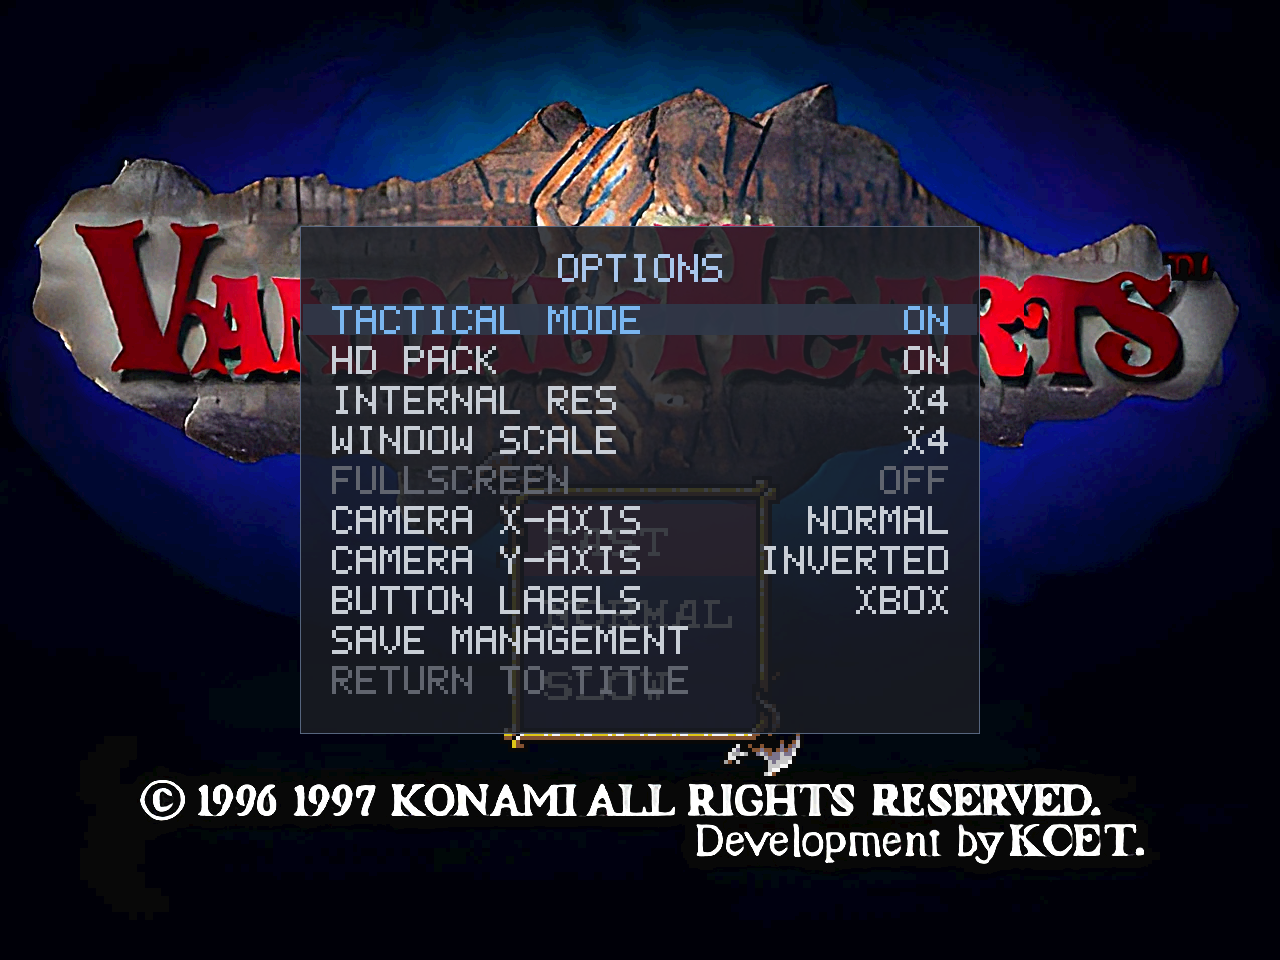
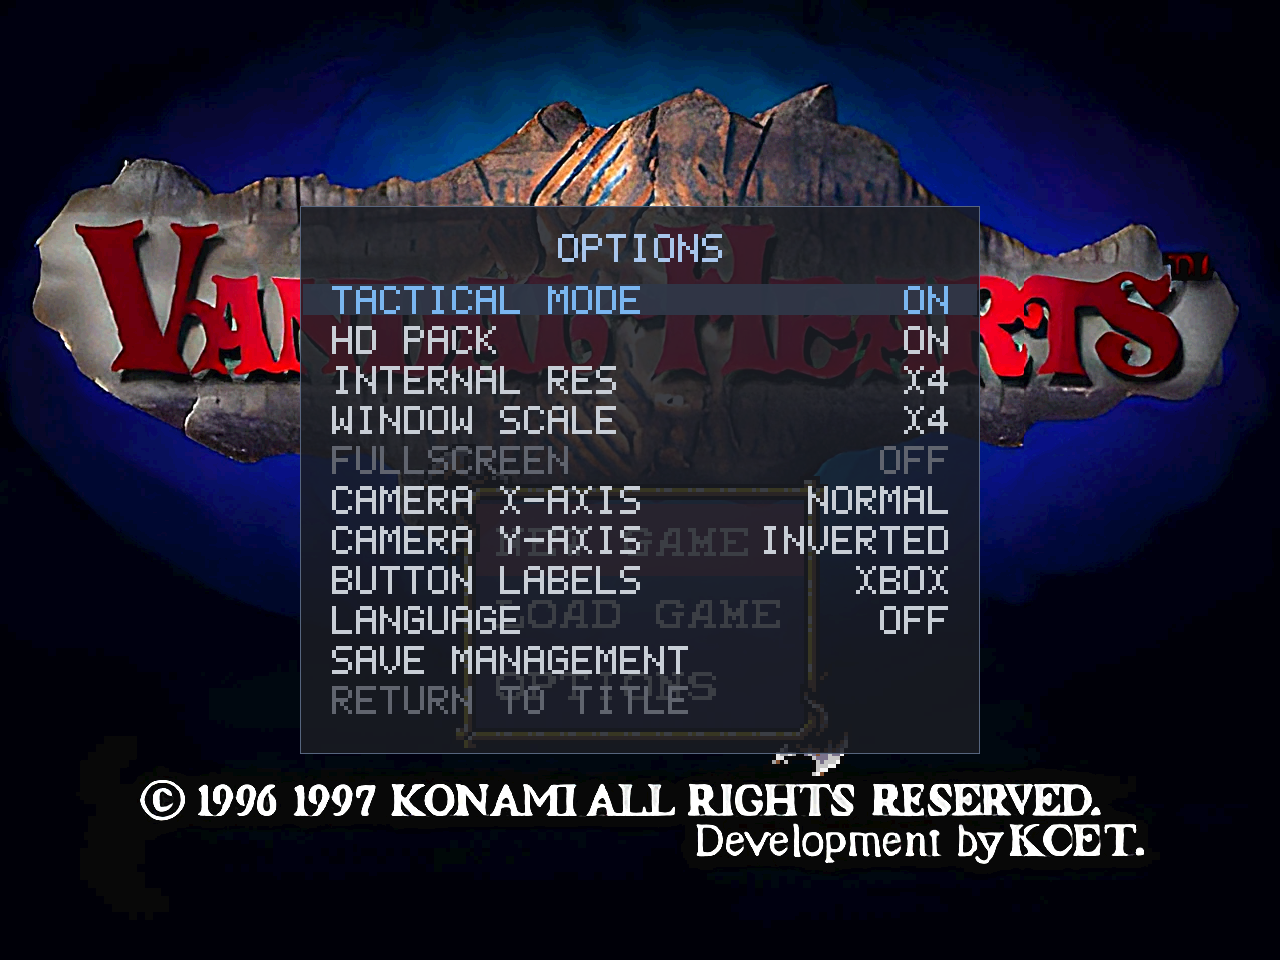
docs: 1.7.0 prep -- language packs across the player-facing documentation
The feature existed only in the tooling's own docs; the main documentation
now carries it everywhere a player or translator looks:

- README: a "Translate the game" row in Where to start (player guide +
  authoring quickstart/reference).
- Issue template: version placeholder to v1.7.0 and a required Language
  pack field (with the LANGUAGE=OFF isolation step), mirroring the HD-pack
  pattern; contact links mention language packs.
- configuration.md: the missing VH_LANG row (overlay persistence, restart
  semantics, VH_LANGPACK dev override).
- language-packs.md: the 16-char item-name option (format 2) and a
  Localized backgrounds section -- every INTERNAL RES setting, nothing
  needed from the player, priority over the HD pack (cross-referenced from
  hd-pack.md).
- Player Manual: Language packs in Setup and Features (PDF chain verified).
- OPTIONS.md: the VH_LANG/VH_LANGPACK env reference.
- roadmap.md: v1.7.0 framed as the one enabling (not gameplay) addition
  since the maintenance declaration.
- gameplay-additions.md: a Language packs section in the house pattern
  (community intent, reused quickstart screenshots), the overlay row list
  gains LANGUAGE (the one non-live setting), and the refreshed overlay
  screenshot showing the row (metadata stripped).

Changed region(s): [[0.2188, 0.1875, 0.7812, 0.8125]]

diff --git a/platform/pc/OPTIONS.md b/platform/pc/OPTIONS.md
@@ -19,6 +19,7 @@ directory (`vh_*.csv` / `.txt` / `.log`, all gitignored).
 | `VH_INTERNAL_SCALE` | `1` | **Internal-resolution supersampling** (1.5/G2). `1` = off (native render). `2`–`4` render the software GPU at that multiple: each primitive is rasterized a second time into an Nx-larger buffer (geometry ×N, native texture sampled per hi-res pixel), for crisper terrain/edges without re-authoring any art. Needs `VH_ACCURATE=1` (the default). Cost is roughly N² × the native rasterizer (dual-pass), but the hi-res pass is **multithreaded** (see `VH_RASTER_THREADS`), so on a multicore CPU `2`/`3`/`4` all hold the 30 fps cap and battle fast-forward stays effective at `4`×. Also settable live in the options overlay ("INTERNAL RES", X1/X2/X3/X4) and persisted. **"Crust-free" tile sampling** is built in (no knob): the hi-res pass biases the UV sample +0.5 texel on perspective world polys so tile edges land on the bright cell interior instead of the dark border "crust" texel — this is exactly what the reference renderer does, and it removes the faint dark grid that finer sampling would otherwise draw along terrain/lava/water tile seams (and the compass "dotted lines"), with no softening. Axis-aligned 2D UI/text/sprites are auto-detected and keep plain centre-sampling, so glyph/border columns never shift. The decision is per-quad, so a quad's two triangles always agree (no diagonal seam). Hi-res pass only — native `s_vram` stays byte-exact. |
 | `VH_RASTER_THREADS` | auto | Worker-thread count for the internal-resolution rasterizer (1.5/P1). Default = online CPU count (auto-detected via SDL, capped at 32). Set a number only to **cap** it (e.g. `4` to leave cores free). Ignored at `VH_INTERNAL_SCALE=1` (nothing to parallelize) or for a tiny display list (falls back to single-threaded). Bands write disjoint hi-res scanlines → lock-free; output is bit-identical to single-threaded (harness-validated). |
 | `VH_HDPACK` | auto | **HD background pack** on/off (1.6). Set automatically when a valid `hdpacks/` is auto-detected beside the executable (manifest game id must match `SLUS-00447`); toggle live in the overlay ("HD PACK", greyed with no pack) and persisted here. Enabling bumps `INTERNAL RES`→≥2 and (windowed) `WINDOW SCALE`→≥2 so the HD detail is visible; dropping either to 1 disables it. Only 8bpp backgrounds are replaced — pixel-art portraits/sprites/UI stay native. `VH_HD_PACK=<dir>` (underscore) overrides the auto-detect with an explicit `backgrounds/` folder. HD images decode on a background thread (a scene shows native texels for the first frame or two behind the fade-in); `VH_HD_SYNC=1` forces the old inline decode for A/B. See [../../docs/hd-pack.md](../../docs/hd-pack.md). |
+| `VH_LANG` | unset | **Language pack** selection (1.7): the folder name under `<deploy>/langpacks/` whose `manifest.json` passes the game/format gate. Set from the overlay ("LANGUAGE", System — a pending change is marked `*` and applies at the next launch; packs apply at boot only, no live swap) and persisted here. A pack's localized backgrounds render at every `VH_INTERNAL_SCALE` — at 1× the engine keeps a native-size shadow pass alive just for the pack (HD-pack backgrounds still need ≥ 2×). `VH_LANGPACK=<dir>` points straight at a pack folder (dev override, skips the picklist). See [../../docs/language-packs.md](../../docs/language-packs.md). |
 | `VH_CAM_INVERT_X` | `0` | Invert the right-stick camera *horizontal* axis (rotate direction). `1` = inverted. Also toggleable in the in-game options overlay (SELECT+START). |
 | `VH_CAM_INVERT_Y` | `1` | Invert the right-stick camera *vertical* axis (raise/lower angle). **Ships inverted** — the modern twin-stick convention (push up = tilt the view down); set `0` for a normal vertical axis. Also toggleable in the in-game options overlay. |
 | `VH_SEQ_MUTE` | off | `1` = mute only the SEQ **music**, keep VAG SFX + XA audible (useful for isolating sound effects). |

diff --git a/docs/gameplay-additions.md b/docs/gameplay-additions.md
@@ -38,7 +38,7 @@ The full scheme — every binding, pad and keyboard — is in [controls.md](cont
 Press **SELECT + START** during play to open the overlay. Every setting applies live and persists
 to `vandalhearts.ini`:
 
-![The options overlay: Tactical Mode, HD pack, resolution, camera, labels, saves](images/OverlayMenu-Main.png)
+![The options overlay: Tactical Mode, HD pack, resolution, camera, labels, language, saves](images/OverlayMenu-Main.png)
 
 - **TACTICAL MODE** — the opt-in rebalance (see below). Changeable only at the title screen: a
   run's mode is fixed.
@@ -46,6 +46,8 @@ to `vandalhearts.ini`:
   this row says why (`NO PACK` / `OUTDATED PACK` / `WRONG GAME`).
 - **INTERNAL RES / WINDOW SCALE / FULLSCREEN** — display settings (see *Graphics*).
 - **CAMERA X/Y-AXIS, BUTTON LABELS** — controls settings (above).
+- **LANGUAGE** — pick an installed language pack (see below). The one overlay setting that is not
+  live: a pending change is marked `*` and applies at the next launch.
 - **SAVE MANAGEMENT / RETURN TO TITLE** — below.
 
 ### Save management
@@ -182,6 +184,33 @@ swapped:
 ![The same intro frame from the HD re-encode](images/features-1.6-Videos-02.png)
 
 Installing, building, and every option: [hd-pack.md](hd-pack.md).
+
+## Language packs
+
+**Intent: a community-driven effort — let more people enjoy the game, in their own language.**
+
+An optional pack displays the game's text in another language: dialogue, menus, item and spell
+names and descriptions, battle messages, save captions — even backgrounds with text baked into the
+art, such as the title card. The base build ships no translated text; packs are built by the
+community with the repository's authoring toolchain, from a player's own disc. Non-Latin scripts
+work with drawn glyph sheets (Cyrillic and Greek are proven in game), and everything renders at
+every graphics setting.
+
+Select an installed pack with the overlay's `LANGUAGE` row — it applies at the next launch. A pack
+is a *diff*: entries a Latin-script pack has not translated yet simply stay English, so a
+work-in-progress translation is already playable.
+
+*Greek demo — translated dialogue (note the `;`, the Greek question mark):*
+
+![In-game Greek dialogue](../platform/pc/tools/langpack/images-quickstart/quickstart-08-dialog.png)
+
+*A localized title background:*
+
+![A localized Greek title background](../platform/pc/tools/langpack/images-quickstart/quickstart-10-backgrounds.png)
+
+Installing and what a pack covers: [language-packs.md](language-packs.md). Making one: the
+[hands-on quickstart](../platform/pc/tools/langpack/quickstart.md) and the
+[toolchain reference](../platform/pc/tools/langpack/README.md).
 
 ---
 

diff --git a/docs/configuration.md b/docs/configuration.md
@@ -62,6 +62,7 @@ isn't already set. Applied keys are echoed at startup (`PC_Config: KEY=VALUE (fr
 | `VH_INTERNAL_SCALE` | `1` (off) | Internal render resolution for the 3D — supersample at `1`× (native), `2`×, `3`×, or `4`×, for a sharper image with no change to the art, sprites, or camera (it samples the same textures on a denser grid). `2`× is essentially free; `3`×/`4`× are heavier (the rasterizer is multithreaded — see `VH_RASTER_THREADS`). Tile-seam handling ("crust-free" sampling) is built in — the denser grid samples tile interiors like the reference renderer, so no dark grid appears along terrain/lava/water seams, while 2D UI/text stays pixel-aligned. Also settable live in the options overlay (**SELECT + START**), which writes your choice back to the INI. |
 | `VH_RASTER_THREADS` | auto (one per core) | Advanced: worker-thread count for the internal-resolution rasterizer. Default is automatic (online CPU count, capped). Set a number only to cap it — e.g. `4` to leave cores free for other work. Ignored at `1`× internal resolution (nothing to parallelize). |
 | `VH_HDPACK` | auto (on when a valid pack is found) | Enable the optional HD pack (backgrounds + FMV movies). Set automatically when a valid `hdpacks/` is auto-detected beside the executable; toggle it live in the options overlay ("HD PACK"), which persists your choice here. Needs internal resolution > 1 (and, windowed, window scale > 1) to be visible — enabling it bumps those. See [hd-pack.md](hd-pack.md). `VH_HD_PACK=<dir>` (note the underscore) instead points at an explicit `backgrounds/` folder. |
+| `VH_LANG` | *(unset)* | Language pack selection — the folder name under `langpacks/` beside the executable (e.g. `fr-fantrad`). Normally set from the options overlay's **LANGUAGE** row (System category), which persists here; a change applies at the next launch. Unset or empty = the original English. `VH_LANGPACK=<dir>` (developer override) points straight at a pack folder. See [language-packs.md](language-packs.md). |
 
 The everyday knobs are few by design. There are also **compatibility** and **audio-tuning** keys whose
 defaults reproduce real-hardware behaviour and shouldn't normally be touched — they're documented in

diff --git a/docs/language-packs.md b/docs/language-packs.md
@@ -49,11 +49,24 @@ experience message), the Tactical Mode flavour text, and the save/load slot capt
 **diff** — an entry it does not translate keeps the original text, so a partial Latin translation is
 still a working translation.
 
+A pack may also opt into **longer item names** — 16 characters instead of the original 8 — which
+then render in the smaller font on the shop, depot and battle item screens. It is the translator's
+choice, baked into the pack (`format: 2` in its manifest); an older port build refuses such a pack
+loudly rather than showing broken text.
+
 The save-slot caption (`Chap. 1 Sct. 1  L5   0:15`) is translated at **display time**: the caption
 stored in the save file stays language-neutral English, and its labels are swapped for the pack's
 when the load/save menu draws it. So the save file stays portable (it still round-trips to emulators
 and console, and reads correctly under any pack or none), and even saves made before a pack was
 installed show the translated caption.
+
+## Localized backgrounds
+
+A pack can also replace backgrounds that have **text baked into the image** — the title card,
+signposts, map labels — with translated versions, using the same mechanism as the HD pack's
+backgrounds (and a translated background wins over the HD one). Nothing extra is needed on the
+player's side: they show at **every INTERNAL RES setting**, with or without the HD pack installed
+or enabled. At 1× the art is displayed at native resolution.
 
 ## What a pack does not cover
 

diff --git a/docs/manual/manual.md b/docs/manual/manual.md
@@ -43,6 +43,12 @@ Download `VandalHearts-*-hdpack.zip` from the release page and unzip it so the `
 sits next to the executable (next to the AppImage on Linux). The game detects it at the next
 launch and turns the **HD PACK** option on. Without the pack, nothing changes.
 
+## Language packs (optional)
+
+Community-made translations install the same way: place the pack folder under `langpacks/` next
+to the executable (e.g. `langpacks/fr-fantrad/`), then pick it with the **LANGUAGE** option
+in-game and restart. Without a pack the game is its original English.
+
 ## Settings
 
 Almost everything is set in-game: press **SELECT + START** for the options overlay. Choices
@@ -112,6 +118,14 @@ Hand-drawn pixel art — portraits, sprites, menus — deliberately stays origin
 smoothed.
 
 ![](../images/HDPack-On.png)
+
+## Language packs {.page-break}
+
+With a pack selected, the game's text — dialogue, menus, items, battle messages — displays in
+that language, at any graphics setting. Some packs also translate backgrounds with baked-in text
+(such as the title card). Changing the language takes effect at the next launch; the port's own
+SELECT+START menu deliberately stays English. Packs are made by the community with the tools in
+the repository — this project distributes no game text.
 
 ## Tactical Mode *(opt-in, changes gameplay)* {.page-break}
 

diff --git a/docs/roadmap.md b/docs/roadmap.md
@@ -123,6 +123,14 @@ quality-of-life, graphics fidelity, and the optional HD pack — have shipped ac
 the project is in **maintenance**: minor adjustments and fixes for reported issues rather than new feature
 tracks. Known problems and small follow-ups are tracked in [known_issues.md](known_issues.md).
 
+**v1.7.0** is the one addition since — not a gameplay track but an *enabling* one: **language
+packs**. The port can display the game's text in another language, loaded from an optional
+community-built pack ([language-packs.md](language-packs.md)); the authoring toolchain
+([`platform/pc/tools/langpack/`](../platform/pc/tools/langpack/)) exports the text from a player's
+own disc, validates a translation against the engine's real limits, and builds the pack — including
+non-Latin scripts (Cyrillic and Greek proven in game) and localized backgrounds. The base build
+still ships no game text and behaves identically without a pack.
+
 **v1.6.2** (released 2026-08-05) came from the first user bug report: a damaged disc image used to
 hang the game silently and now stops with a clear error naming the broken sector (see
 [troubleshooting.md](troubleshooting.md#the-game-wont-start)).

diff --git a/README.md b/README.md
@@ -54,6 +54,7 @@ playthroughs on both Windows and Linux, including the endgame and credits.
 |---|---|
 | **Play the game** | Grab the [latest release](https://github.com/HalmyLyseas/VandalHearts-PcPort/releases/latest) — the **Player Manual** (PDF) ships with it and covers setup, controls, and every feature ([source](docs/manual/manual.md)). Quick start below. |
 | **Something's wrong** | [Troubleshooting](docs/troubleshooting.md) · [Known issues](docs/known_issues.md) · then open an issue. |
+| **Translate the game** | [Language packs](docs/language-packs.md) — what they cover and how they install — then the authoring toolchain: [hands-on quickstart](platform/pc/tools/langpack/quickstart.md) · [full reference](platform/pc/tools/langpack/README.md). |
 | **Contribute / fix a bug** | [Architecture](docs/architecture.md) first — the two-layer design and the one unbreakable rule — then [CONTRIBUTING.md](CONTRIBUTING.md). |
 | **Understand how it works** | The [documentation index](docs/README.md): internals, subsystem deep-dives, decoded game mechanics. |
 

diff --git a/docs/hd-pack.md b/docs/hd-pack.md
@@ -6,6 +6,10 @@ and the game behaves identically without a pack. A pack is either **built from y
 or **downloaded as an optional asset on the 1.6 release** — the prebuilt pack is upscaled derivative art,
 provided for convenience (see [NOTICE](../NOTICE)).
 
+(A **language pack** can carry translated backgrounds through the same mechanism — those take
+priority over the HD pack's and work at every internal resolution; see
+[language-packs.md](language-packs.md).)
+
 Backgrounds and movies are replaced because both are **continuous-tone** content that upscales cleanly.
 The game's other 2D art — dialogue portraits, sprites, UI, fonts — is hand-drawn pixel art and is left at
 its native resolution (the engine's integer-scaled nearest-neighbour), which keeps it consistent with the
